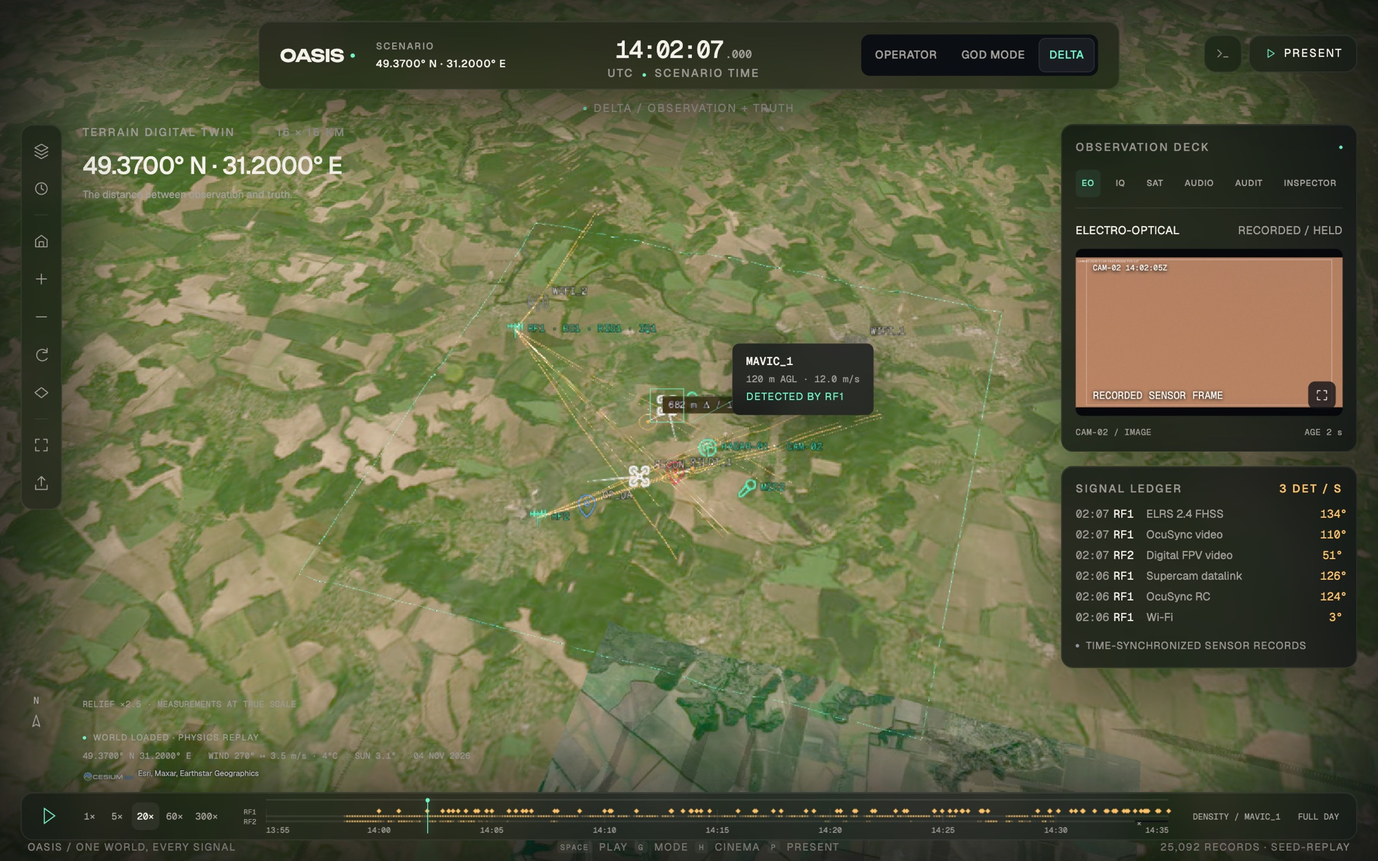
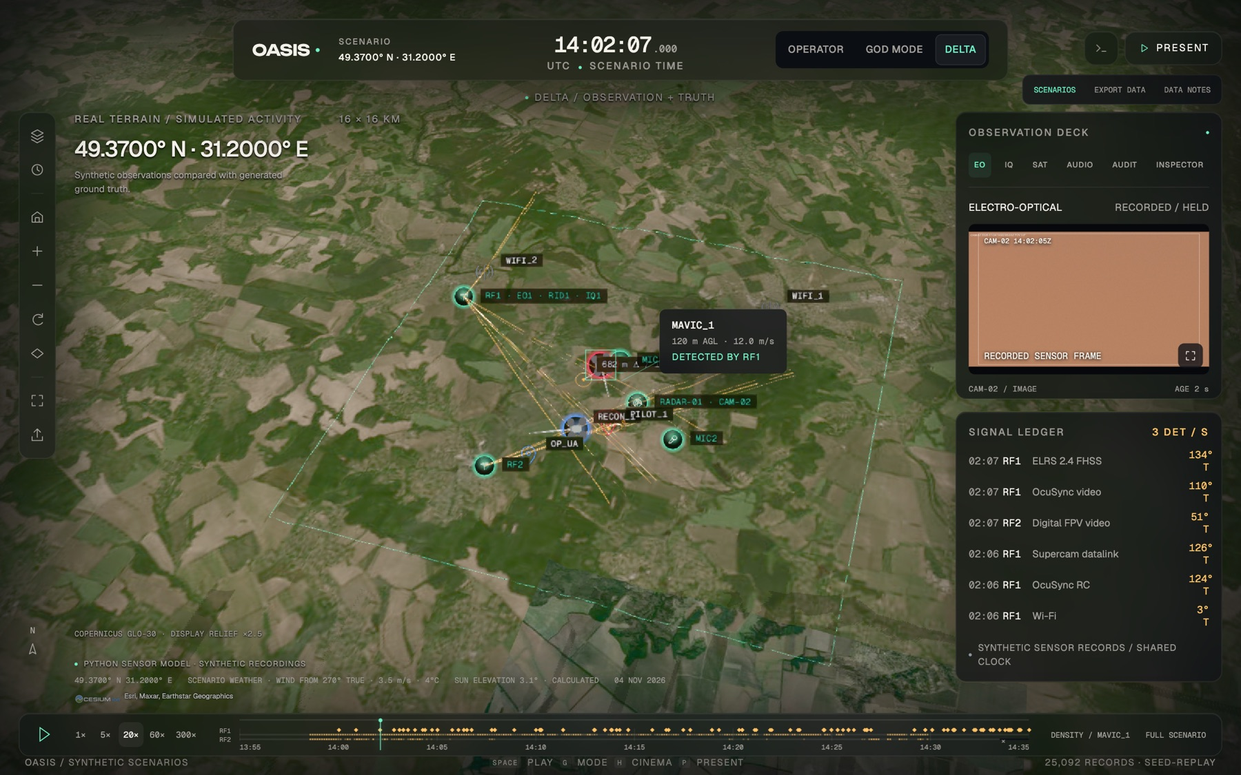
README: verified against the current runs; live console flow, scenario library, showcase stories with reproduced outcomes, Blender airframe markers, updated known limits, fresh screenshots

diff --git a/README.md b/README.md
@@ -4,80 +4,101 @@
 
 **One world. Every signal.**
 
-Synthetic aerial-defence scenarios over real Ukrainian terrain. OASIS simulates one true world, records what every sensor would physically have captured, and keeps an answer key for every record.
+Synthetic aerial-defence data over real Ukrainian terrain: the truth, what every sensor would physically have recorded, and an answer key for every record.
 
-[**Live console**](https://oasis-chi-drab.vercel.app) · [The proof](#the-proof-oasis-vs-asking-an-llm) · [How it works](#how-it-works) · [Seed engine](#the-seed-engine) · [Log book](#the-log-book) · [Quickstart](#quickstart)
+[**Open the live console →**](https://oasis-chi-drab.vercel.app)
+
+[The proof](#the-proof-oasis-vs-asking-an-llm) · [Try it](#try-it) · [How it works](#how-it-works) · [Sensors](#sensors) · [Seed engine](#the-seed-engine) · [Showcase stories](#showcase-stories) · [Quickstart](#quickstart)
 
 </div>
 
-![The OASIS console replaying the hero day over real terrain: radio bearings, position fixes, sensor masts, protected assets and the observation deck](docs/media/console.jpg)
+![The OASIS console replaying the hero day at 14:02:07 UTC: radio bearings from two masts crossing on a hostile Mavic, sensor masts and assets as glass badges, the observation deck and the signal ledger](docs/media/console.jpg)
+
+| What you get | |
+|---|---|
+| **The truth** | Every drone, pilot, decoy, interceptor and flock on one UTC clock over the Copernicus 30 m terrain model. |
+| **Every sensor** | Ten sensors, led by radio direction finding (the signal trace), each recording only what physics allows. |
+| **An answer key** | Every record traced to the object that caused it, and why: line of sight, diffraction loss, SNR, range, delay. |
+| **An independent audit** | Ten checks from geometry, terrain, causality and statistics that never use OASIS's own models. |
+
+**The proof in one line:** on the same 10-minute window, OASIS passes **9 of 9** applicable checks with **8,040** records; a one-shot LLM dataset passes **1** and fails **3**, with **40** records.
 
 ---
 
 ## Why this exists
 
-Counter-drone AI is only as good as the data it learns from, and that data barely exists.
+Counter-drone AI is only as good as its training data, and that data barely exists.
 
-- **Real recordings are scarce, sensitive and unlabelled.** Nobody can tell you which radio burst came from which drone.
-- **They never contain the edge cases that matter:** fibre-optic FPVs with no radio link, jamming, GNSS spoofing, decoys and terrain shadows.
+- **Real recordings are scarce, sensitive and unlabelled.** Nobody can say which radio burst came from which drone, or where its pilot stood.
+- **They never contain the cases that matter most:** fibre-optic FPVs with no radio link, jamming, GNSS spoofing, decoys, terrain shadows.
 
-OASIS **generates** that data, and proves it is physically consistent:
-
-1. **One world, one clock.** Every drone, pilot, decoy, interceptor, bird and civilian is placed on real terrain and flown on one UTC clock. That is the ground truth.
-2. **Sensors observe through physics.** Radio direction finding (the signal trace), raw IQ, radar, camera, satellite, microphones, Remote ID, our own drone's telemetry and civilian reports each see only what physics allows: terrain diffraction, line of sight, the sun, haze, the speed of sound and orbital geometry.
-3. **Blind files plus an answer key.** Sensor files contain no truth. A separate answer key traces every record back to the object that caused it, and why: line of sight, diffraction loss, SNR, range.
-4. **Independent audit.** A separate auditor checks the output with geometry, the DEM, causality and statistics. It never uses OASIS's own propagation models, so it cannot simply agree with itself.
+OASIS generates that data and proves it is physically consistent, so a model trained on it learns physics, not artefacts.
 
 ## The proof: OASIS vs asking an LLM
 
-The challenge asks why this beats asking a strong model for a dataset in one go. We tested exactly that.
-
-**Setup.** One call to a strong general model, given the full scenario and asked for physically realistic sensor data in our file layout (`baselines/oneshot/`). Both datasets cover the same 10-minute window (14:07–14:17 UTC on the hero day) and go through the same 10 checks.
+The challenge asks why this beats asking a strong model for a dataset in one go. We ran exactly that test. One call to a strong general model, given the full scenario and asked for physically realistic sensor data in our file layout (`baselines/oneshot/`). Both datasets cover the same window (14:07–14:17 UTC on the hero day) and face the same ten checks.
 
 | Check | What it tests | **OASIS** | One-shot LLM |
 |---|---|---|---|
-| Provenance | every record traces to a real object; no truth leaks into sensor files | ✅ clean | ✅ clean |
+| Provenance | every record traces to a real object; no truth leaks into sensor files, as columns or as values | ✅ clean | ✅ clean |
 | Clock sync | one UTC clock: `time_utc = start + t`, monotonic, inside the window | ✅ max error 0.5 ms | ❌ timestamps run backwards |
 | Bearing geometry | line-of-sight bearings fall within 2σ of the true bearing | ✅ 95%, and it recovers the hidden mast offsets (+0.84° / −0.59°) | ❌ biased +28.6° / −48.7° |
-| Occlusion gaps | receivers go quiet while terrain blocks the path | ✅ RF2 stays silent for all 336 s of the window in which a ridge hides the Mavic | ⚪ no drone ever goes behind terrain |
-| Fix calibration | ~50% of position fixes fall inside their own reported CEP50 | ✅ 52.5% (236 fixes) | ❌ "too good": 8 m errors under a 50 m CEP |
+| Occlusion gaps | receivers go quiet while terrain blocks the path | ✅ RF2 silent for all 336 s of the window in which a ridge hides the Mavic | ⚪ no drone ever goes behind terrain |
+| Fix calibration | about half of the position fixes fall inside their own reported CEP50 | ✅ 52.5% of 236 fixes | ❌ "too good": 8 m errors under a 50 m CEP |
 | Range law | fitted path-loss exponent lies in the physical 1.5–4.5 band | ✅ 1.9 (RF1), 4.2 (RF2) | ⚪ too little data to test |
-| Acoustic delay | sound arrives distance ÷ c(T) after emission | ✅ max error 0.17% | ⚪ no audio |
-| Spoof visibility | spoofed GNSS shows up only inside the spoofing window | ✅ 2 m error outside vs 245 m inside | ⚪ no position reports |
+| Acoustic delay | sound arrives distance ÷ c(T) after emission, c from the air temperature | ✅ max error 0.17% | ⚪ no audio |
+| Spoof visibility | spoofed GNSS shows up only inside the spoofing window | ✅ 2 m median error outside, 245 m inside | ⚪ no position reports |
 | Cross-sensor time | every camera frame was cued by RF or radar within 5 s | ✅ 1,603 frames | ⚪ no frames |
 | Terrain shadow | excess path loss is ≥ 10 dB higher behind terrain | ⚪ not enough mixed paths in this window | ⚪ |
 | **Result** | | **9 pass · 0 fail · 1 skip** | **1 pass · 3 fail · 6 skip** |
 
-**Volume.** Within that window, OASIS wrote **8,040 sensor records**, 2,716 of them radio bearings. The one-shot dataset holds **40** records in total.
-
-**The deeper point.** An LLM can write plausible rows. It cannot keep 8,000 of them consistent with terrain, orbits, the speed of sound and each other. That consistency is what makes data trainable, and it is what the audit measures. Reproduce it with:
+In that window OASIS wrote **8,040 sensor records**, 2,716 of them radio bearings. The one-shot dataset holds **40**. An LLM can write plausible rows; it cannot keep 8,000 of them consistent with terrain, orbits, the speed of sound and each other. That consistency is what makes data trainable, and it is what the audit measures.
 
 ```sh
 uv run python -m mirrorworld audit out/ros-valley --window 18720 19320 --baseline baselines/oneshot/out/ros-valley-oneshot
 ```
 
+## Try it
+
+**Live console:** <https://oasis-chi-drab.vercel.app>
+
+1. The entry globe opens with Ukraine highlighted.
+2. **Enter simulation** opens the scenario library: eleven runs, each generated by the physics engine and audited.
+3. Pick one. It loads into the 3D console, where **Operator** shows only what the sensors saw, **God mode** shows the truth, and **Delta** shows both, with a line from each observation to the truth.
+
+<p align="center">
+  <img src="docs/media/entry-globe.jpg" width="49%" alt="The OASIS entry globe with Ukraine highlighted">
+  <img src="docs/media/scenario-library.jpg" width="49%" alt="The scenario library: eleven audited physics runs with their coordinates, seeds, airframes and audit results">
+</p>
+
+**Things to look for in the hero day:**
+- At **14:02:07 UTC** the Mavic is exactly at the challenge brief's example point.
+- At **14:10** the fibre-optic FPV launches; no electronic sensor records it.
+- At **14:11:23** a ridge silences RF2 while RF1 keeps bearing.
+
+The public site carries every third camera frame and no WAV audio, to stay light. A local run has everything.
+
 ## The hero day
 
-Area centre 49.3700° N · 31.2000° E (a 16 × 16 km valley), 4 Nov 2026, 08:55–14:35 UTC. The scenario is `scenarios/ros-valley.yaml`.
+Area centre 49.3700° N · 31.2000° E, a 16 × 16 km valley, 4 Nov 2026, 08:55–14:35 UTC (`scenarios/ros-valley.yaml`). It runs from a morning satellite pass to dusk.
 
-| UTC | What happens | What makes it hard |
+| UTC | What happens | Why it is hard |
 |---|---|---|
-| 09:06:39.787 | **Sentinel-2A passes overhead.** The pass is computed from orbit data. A Shahed is inserted into a real L2A scene at true size, with per-band timing smear and a sun-cast shadow | satellites see the past: each band is a different instant |
-| 13:58:32 | **A hostile Mavic launches.** RF1 records it within a second. At 14:02:07 it is exactly at the challenge brief's example point | controller uplinks are DF'd at the operator: crossed bearings locate the **pilot** |
+| 09:06:39.787 | **Sentinel-2A passes overhead.** The pass is computed from orbit data. A Shahed is inserted into a real L2A scene at true size, with per-band timing smear and a sun-cast shadow | each band is a different instant |
+| 13:58:32 | **A hostile Mavic launches.** RF1 records it within a second; at 14:02:07 it sits on the brief's example point | controller uplinks are found at the operator: crossed bearings locate the **pilot** |
 | 14:10:00 | **A fibre-optic FPV launches.** It has no radio link, so no electronic sensor records it. Three civilian reports, 179 s after launch, are its only trace | the threat that defeats RF-based defence, shown honestly |
-| 14:11:23 | **The Mavic flies a leg through RF2's terrain shadow.** RF2 goes silent for 461 s while RF1 keeps bearing on it | dead zones come from the DEM, not from a script |
-| 14:25–14:33 | **A 2.4 GHz barrage jammer runs (14:25:50–14:27:50), our own recon drone is GNSS-spoofed, and at 14:33:30 an FPV destroys the RF2 mast.** The jammer is airtime-weighted. The recon drone's telemetry drifts 245 m during the spoof | sensors fail as they would in reality |
-| all day | **Protected power station SITE-01, a mobile air-defence team and C2-01.** C2 raises alerts from sensor data only. The answer key shows what really reached the site | the gap between what C2 knew and what happened |
+| 14:11:23 | **The Mavic flies through RF2's terrain shadow.** RF2 goes silent for 461 s while RF1 keeps bearing | dead zones come from the DEM, not from a script |
+| 14:25–14:33 | **A 2.4 GHz barrage jammer runs (14:25:50–14:27:50), our recon drone is GNSS-spoofed, and at 14:33:30 an FPV destroys the RF2 mast** | sensors fail as they would in reality |
+| all day | **A protected power station, a mobile air-defence team and a command post (C2).** C2 raises alerts from sensor data only; the answer key shows what really reached the site | the gap between what C2 knew and what happened |
 
 <p align="center"><img src="docs/media/drone_near_far.png" width="760" alt="The same 2.5 m delta-wing drone through the OASIS camera model at 400 m and 2,140 m"></p>
-<p align="center"><sub>The camera model draws a Blender-rendered airframe at its true angular size and viewing angle: 32 px across at 400 m, about 6 px at 2,140 m.</sub></p>
+<p align="center"><sub>The camera draws a Blender-rendered airframe at its true angular size and viewing angle: 32 px across at 400 m, about 6 px at 2,140 m.</sub></p>
 
 ## How it works
 
 ```mermaid
 flowchart LR
-  P["text prompt<br/>(optional)"] --> K["knobs + seed"]
-  K --> B["builder<br/>DEM siting · sun · rendezvous"]
+  K["knobs + seed<br/>(or a text prompt)"] --> B["builder<br/>terrain siting · sun · rendezvous"]
   B --> Y["scenario.yaml<br/>(validated)"]
   Y --> W["one world<br/>truth on one UTC clock"]
   W --> RF["RF direction finding<br/>+ raw IQ"]
@@ -94,71 +115,85 @@ flowchart LR
   F & AK --> UI["3D console"]
 ```
 
-**Rules the code enforces:**
-- **One clock.** Every record carries `time_utc` and `t`, and the audit checks they agree to the millisecond.
+**Rules the code enforces**
+- **One clock.** Every record carries `time_utc` and `t`; the audit checks they agree to the millisecond.
 - **Determinism.** Every random draw comes from a named stream (`ctx.rng(name)`), so the same scenario and seed always give the same files.
-- **No leaks.** Sensor folders never contain truth columns, and the audit checks values as well as column names.
-- **No silent skips.** A missing data source is logged, never quietly ignored. Every run must include the signal trace (an `rf_df` receiver).
+- **No leaks.** Sensor folders never contain truth, and the audit checks values as well as column names.
+- **The signal trace is mandatory.** A scenario without a radio direction-finding receiver is refused.
 
 ## Sensors
 
-One module each in `mirrorworld/sensors/`.
+One module each in `mirrorworld/sensors/`, all on the same clock.
 
 | Sensor | What it records |
 |---|---|
-| `rf_df` | Direction-finding receivers on real radio masts. Terrain diffraction is ITU-R P.526-16 delta-Bullington over the Copernicus 30 m DEM (validated against the reference implementation), with correlated shadowing, Rician fading, co-channel interference and barrage jamming. Bearing error grows with SNR and with terrain-blocked paths. **Controller uplinks are separate transmitters, so crossed bearings locate the pilot.** Outputs are CSV and TAK lines of bearing. |
-| `rf_iq` | Raw 2.4 GHz IQ snapshots (SigMF) with every burst at its physical power. Per-burst labels are in the answer key. |
+| `rf_df` | **The signal trace.** Direction-finding receivers on real radio masts. Terrain diffraction is ITU-R P.526-16 delta-Bullington over the 30 m DEM, matching the reference implementation to about 1e-14 dB, with correlated shadowing, Rician fading, co-channel interference and barrage jamming. Bearing error grows with SNR and with terrain-blocked paths. Controller uplinks are separate transmitters, so crossed bearings locate the pilot. Outputs CSV and TAK lines of bearing. |
+| `rf_iq` | Raw 2.4 GHz IQ snapshots (SigMF), every burst at its physical power; per-burst labels in the answer key. |
 | `radar` | X-band plots with terrain masking, Swerling-1 fluctuation, birds-vs-drones confusion and clutter, plus an alpha-beta tracker with realistic gaps. |
-| `camera` | Pan-tilt camera cued by RF fixes or radar tracks. The scene uses the real sun position, a horizon ray-marched from the DEM, and **3D drone models rendered in Blender** (`tools/render_sprites.py`), drawn at true pixel size and viewing angle, then hazed, blurred, noised and JPEG-compressed. Includes simulated detector output. |
-| `satellite` | The real Sentinel-2 pass computed from orbit data, over a real Sentinel-2 L2A background. Movers are inserted at true size with per-band timing smear and a sun-cast shadow. |
+| `camera` | Pan-tilt camera cued by RF fixes or radar tracks. Real sun position, a horizon ray-marched from the DEM, and Blender-rendered airframes (`tools/render_sprites.py`) at true pixel size and viewing angle, then hazed, blurred, noised and JPEG-compressed. Includes detector output. |
+| `satellite` | The real Sentinel-2 pass from orbit data, over a real Sentinel-2 L2A background; movers inserted at true size with per-band timing smear and a sun-cast shadow. |
 | `microphone` | Per-microphone WAVs with speed-of-sound delay, Doppler, ISO 9613-1 absorption, terrain screening and wind, plus a CFAR tone detector. |
 | `remote_id` | DroneID-style broadcasts that leak the pilot's position and carry the drone's *believed* (spoofable) GNSS. |
 | `telemetry` | Our own drone's log, which drifts under GNSS spoofing. |
-| `reports` | Civilian (ePPO-style) and observer reports in Ukrainian and English, generated only when that person could physically see or hear the object. In the hero day they are the only trace of the fibre-optic FPV. |
-| `c2` | Command-post alerts (new track, approaching site, lost contact, sensor silent), response-asset status and protected-site status, all derived from sensor data only. |
+| `reports` | Civilian (ePPO-style) and observer reports in Ukrainian and English, generated only when that person could physically see or hear the object. |
+| `c2` | Command-post alerts (new track, approaching site, lost contact, sensor silent), response-asset status and protected-site status, from sensor data only. |
 
-**Fused output.** Crossed bearings become position fixes with honest error ellipses (`fused/fixes.csv`). These are exported as TAK Cursor-on-Target alongside the lines of bearing and sensor positions, ready for ATAK.
+**Fused output.** Crossed bearings become position fixes with honest error ellipses (`fused/fixes.csv`), exported as TAK Cursor-on-Target next to the lines of bearing, ready for ATAK.
 
 ## The seed engine
 
-Knobs plus a seed give a validated scenario. Everything geometric is computed from the real DEM and the sun, never guessed.
+Knobs plus a seed give a validated scenario. Everything geometric comes from the real DEM and the sun.
 
-**The built world is fixed per sector.** The protected site, the air-defence positions, the receiver masts (sited on the DEM for coverage) with their calibration offsets, and the microphones all come from the sector alone. They are identical for every seed, and `tests/test_builder.py` checks it.
+- **The built world is fixed per sector.** The protected site, the air-defence positions, the receiver masts (sited on the terrain for coverage) with their calibration offsets, and the microphones depend on the sector alone, never on the seed. `tests/test_builder.py` checks it.
+- **The seed changes only what moves:** drone types, entry sides, corridors, altitudes, timing, interceptor rendezvous, birds, the jammer window and the weather.
 
-**The seed drives only what moves:** drone types, entry sides, corridors, altitudes, timing, interceptor rendezvous, birds, the jammer window and the weather.
-
-| Template | What happens | Audit (seed 1, area centre 49.3754° N · 31.1882° E) |
+| Template | What happens | Audit (seed 1, 49.3754° N · 31.1882° E) |
 |---|---|---|
 | `incoming` | mixed hostiles converge on the protected site from random sides | 7 pass · 0 fail |
-| `intercepted` | interceptors launch from the AD team to **exact** rendezvous points on one-way drones | 7 pass · 1 fail |
-| `lost-contact` | a Mavic leg is hidden in a receiver's terrain shadow, a fibre-optic FPV comes in, and a jammer runs | 6 pass · 2 fail |
-| `saturation` | one-way drones arrive in 2–3 tight waves from one side, more than the defence can service | 6 pass · 2 fail |
-| `recon-strike` | a recon UAV orbits the AD battery and a loitering munition follows it in mid-orbit | 7 pass · 0 fail |
-
-Failures are listed under [Known limits](#known-limits); we show them rather than tune them away.
+| `intercepted` | interceptors launch from the air-defence team to exact rendezvous points on one-way drones | 7 pass · 1 fail |
+| `lost-contact` | a Mavic leg hidden in a receiver's terrain shadow, a fibre-optic FPV, a jammer | 6 pass · 2 fail |
+| `saturation` | one-way drones in 2–3 tight waves from one side, more than the defence can service | 6 pass · 2 fail |
+| `recon-strike` | a recon UAV orbits the air-defence battery; a loitering munition follows it in | 7 pass · 0 fail |
 
 ```sh
-uv run python -m mirrorworld.builder --template saturation --seeds 1-4 --run      # build, simulate and audit 4 raids
+uv run python -m mirrorworld.builder --template saturation --seeds 1-4 --run     # build, simulate and audit four raids
 uv run python -m mirrorworld.builder --sector random --template intercepted --drones 12 --seed 4 --run
-uv run python generate_scenario.py --matrix --seed 1                              # every asset-catalog preset × sector
+uv run python generate_scenario.py --matrix --seed 1                             # every asset-catalog preset × sector
 uv run python -m mirrorworld prompt "two Mavics scouting a dam at dusk, a fibre-optic FPV up the river" -o scenarios/new.yaml --run
 ```
 
-Other knobs: `--drones`, `--mix shahed136:3,gerbera:2,orlan10:1`, `--entry N|E|S|W`, `--spread`, `--tod dusk|dawn|morning|noon|night|HH:MM`, `--date`, `--duration`, `--preset minimal|standard|full`, `--defence`, `--birds`, `--wifi`.
+More knobs: `--drones`, `--mix shahed136:3,gerbera:2,orlan10:1`, `--entry N|E|S|W`, `--spread`, `--tod dusk|dawn|morning|noon|night|HH:MM`, `--date`, `--duration`, `--preset minimal|standard|full`, `--defence`, `--birds`, `--wifi`. Prompt mode only fills scenario intent; positions, paths and times are still computed from terrain and the sun.
 
-**Airframes** are public-source archetypes from `mirrorworld/catalog.py` and `data/assets.json`:
+**Airframes** are public-source archetypes (`mirrorworld/catalog.py`, `data/assets.json`):
 - **Hostile:** Geran-2/Shahed, Gerbera decoy, Orlan-10, ZALA, Supercam, Lancet-type loitering munition, Mavic, analog and fibre-optic FPV.
-- **Friendly:** interceptor drones (Octopus, JEDI classes), ground air-defence teams and AD batteries.
-- **Sites:** fictional protected sites (power station, water works, hospital).
+- **Friendly:** interceptor drones (Octopus and JEDI classes), ground air-defence teams and batteries.
+- **Sites:** fictional power station, water works and hospital.
+
+## Showcase stories
+
+Five fixed scenarios with a planned outcome each (`scenarios/showcase/`), all at 49.3754° N · 31.1882° E for 20 minutes from 14:01 UTC. `run_showcase.py` simulates each one, counts hostiles, interceptions and site reaches from the truth, and stops if they differ from the plan. All five reproduce their plan.
+
+| Story | Aircraft | Response | Planned and reproduced | Audit |
+|---|---|---|---|---|
+| Shahed raid on a power station | 3 Shahed-type | JEDI-class interceptor | 1 intercepted, 2 reach the site | 4 pass · 3 fail |
+| Decoys over the water works | 2 Shahed-type, 2 Gerbera decoys | 2 Octopus-class | 2 intercepted, 2 reach the site | 5 pass · 1 fail |
+| Recon and strike on a power station | 2 Shahed-type, 2 Orlan-10 | interceptor | 1 intercepted, 1 reaches; both recon aircraft turn away | 7 pass · 0 fail |
+| Low FPVs at the water works | 2 analog FPV, 2 fibre FPV | 2 JEDI-class | 2 intercepted, 2 reach the site | 7 pass · 1 fail |
+| Lost contact near the hospital | Mavic recon, fibre FPV | JEDI-class, misses | neither reaches; the fibre FPV stops 836 m short | 7 pass · 0 fail |
+
+```sh
+uv run python run_showcase.py all              # simulate, check the planned outcomes, audit, export replays
+uv run python run_showcase.py 03-recon-power --serve
+```
 
 ## The log book
 
-Every run gets `out/<name>/logbook.md`: one time-ordered account that labels each line with the voice it comes from.
+Every run gets `out/<name>/logbook.md`, one time-ordered account in three voices:
 - **TRUTH** is what happened.
 - **SENSOR** is the first time each sensor recorded each object.
 - **C2** is what the command post concluded from sensor data alone.
 
-It ends with this table, taken unedited from the hero day:
+It ends with the outcome per hostile. Unedited, from the hero day:
 
 | hostile | airborne | first sensor record | first C2 alert | truth outcome |
 |---|---|---|---|---|
@@ -168,26 +203,20 @@ It ends with this table, taken unedited from the hero day:
 | shahed_1 | 14:23:20 | 14:23:26 (+6 s) | none | not reached |
 | fpv_1 | 14:24:55 | 14:24:55 (+0 s) | 14:26:12 (+77 s) | not reached |
 
-The Mavic that reached the protected site was in the RF data within a second, yet C2 only alerted 148 s later. That kind of finding is what a training set should expose.
-
-```sh
-uv run python -m mirrorworld.logbook out/ros-valley
-uv run python scripts/publish_runs.py dist          # every run: its own console, log book and raw files, one index
-```
+The Mavic that reached the protected site was in the radio data within a second, yet C2 alerted only 148 s later. A training set should expose exactly that kind of gap.
 
 ## The console
 
-- **Modes:**
-  - **Operator** shows sensor data only.
-  - **God mode** shows the truth.
-  - **Delta** shows both, with a line from each observation to the truth.
-- **Map:** the replay runs on the simulation's own DEM with a baked Sentinel-2 + hillshade texture. The full landscape stays around the sector as context, and every location is shown as coordinates.
-- **Panels:** an observation deck (camera frames, IQ spectrograms, satellite chips, audio, the audit and an inspector), a signal ledger, and a timeline with key moments.
-- **Markers:** asset-catalog icons for sites, teams, drones and sensor masts. They scale with zoom, and detail lines appear only close in.
+- **Entry and library.** A globe with Ukraine highlighted, then the scenario library built from `runs/index.json`. `scripts/publish_runs.py` writes that index and gives every run its data, log book and raw files.
+- **Map.** The replay runs on the simulation's own DEM with a baked Sentinel-2 + hillshade texture; the landscape around the sector stays visible as darker context. Every location is shown as coordinates.
+- **Markers.** Sites, teams and sensor masts are glass badges coloured by side and status. Drones are drawn as their Blender-rendered airframes (quad, delta wing, fixed wing), turned to their heading. Markers grow as you zoom in; detail lines appear only up close.
+- **Readable on any terrain.** The imagery is graded down, every map label sits on a dark backing, and overlay text carries a halo.
+- **Panels.** An observation deck (camera frames, IQ spectrograms, satellite chips, audio, the audit, an inspector), a signal ledger and a timeline with key moments.
 
 ```sh
-npm install && npm run data:export && npm run dev        # Vite + CesiumJS, reads dashboard/public/data.js
-npm run build                                            # static dist/, deployable anywhere
+npm install && npm run data:export && npm run dev       # Vite + CesiumJS dev server, reads dashboard/public/data.js
+npm run build                                           # static dist/, deployable anywhere
+uv run python scripts/publish_runs.py dist              # add every audited run in out/ to the build's scenario library
 uv run python -m mirrorworld dash out/ros-valley --serve # dependency-free fallback replay at localhost:8765
 ```
 
@@ -196,13 +225,13 @@ uv run python -m mirrorworld dash out/ros-valley --serve # dependency-free fallb
 ```sh
 uv sync
 uv run python -m mirrorworld run scenarios/ros-valley.yaml --skip-missing   # hero day → out/ros-valley/
-uv run python -m mirrorworld audit out/ros-valley                           # physics checks → audit.md / audit.json
-uv run python -m mirrorworld.logbook out/ros-valley                         # the readable story → logbook.md
+uv run python -m mirrorworld audit out/ros-valley                           # physics checks → audit.md, audit.json
+uv run python -m mirrorworld.logbook out/ros-valley                         # the story → logbook.md
 ```
 
-- **Prompt mode** needs `OPENAI_API_KEY` in `.env`. The LLM only fills scenario intent; coordinates, sensor sites, flight paths and times of day are computed from terrain and the sun.
 - **First run** downloads the DEM tiles and Sentinel-2 scenes it needs into `cache/`.
-- **Self-checks:** every module has one, e.g. `uv run python tests/test_builder.py`.
+- **Prompt mode** needs an LLM API key in `.env` (the variable name is in `mirrorworld/prompt.py`).
+- **Self-checks:** one per module, e.g. `uv run python tests/test_builder.py`.
 
 ## What a run produces (`out/<name>/`)
 
@@ -210,38 +239,39 @@ uv run python -m mirrorworld.logbook out/ros-valley                         # th
 |---|---|
 | `scenario.yaml`, `run.json` | the exact input, and the manifest: data sources, DEM tiles, skipped sensor types |
 | `truth/tracks.csv`, `truth/objects.csv` | every object's position and velocity on one UTC clock, plus what its own GNSS *believed* (spoofing lives here) |
-| `sensors/<id>/` | only what that sensor recorded, with no truth columns: CSV, JSONL, TAK XML, JPEG, WAV, SigMF |
-| `answer_key/<id>.csv` | for each record, the object that produced it, its role, and the physics behind it (line of sight, diffraction loss, SNR, range, delay, pixels on target) |
-| `fused/fixes.csv`, `fixes.cot.xml` | crossed-bearing positions computed from sensor data alone, as TAK Cursor-on-Target |
+| `sensors/<id>/` | only what that sensor recorded, with no truth: CSV, JSONL, TAK XML, JPEG, WAV, SigMF |
+| `answer_key/<id>.csv` | for each record, the object that produced it, its role and the physics behind it |
+| `fused/fixes.csv`, `fixes.cot.xml` | crossed-bearing positions from sensor data alone, also as TAK Cursor-on-Target |
 | `audit.json`, `audit.md` | the independent checks |
 | `logbook.md` | the time-ordered story: truth, sensors and C2 |
 
 ## Known limits
 
-We list these because a dataset you can't trust is worse than none.
+A dataset you can't trust is worse than none, so the failures are listed rather than tuned away.
 
-- **Range-law check on generated runs.** It fails on three of the five template runs: fitted exponents range from 0.26 to 8.8, against 1.9 and 4.2 on the hero. The suspect is geometry, since DEM-sited masts on high ground see mostly diffraction-free paths over a narrow range spread. It needs a closer look before we trust that statistic on builder scenarios.
-- **Terrain-shadow contrast.** One generated receiver shows 9.2 dB against a 10 dB threshold.
-- **Wind in the acoustic audit.** The audit models air temperature but not wind, so one windy run exceeds the 2% tolerance (2.35%).
-- **Airframes are archetypes.** Platform numbers (speeds, RCS, sound levels, link bands) come from public sources (`docs/research/`); they are not performance data. Camera models are procedural airframes rendered in Blender, not exact replicas.
-- **Fictional sites.** Protected sites and their names are fictional. Radio masts are real (OpenStreetMap), and everything about the drones is synthetic.
+- **Range law on generated runs.** The fitted path-loss exponent leaves the 1.5–4.5 band for at least one receiver in three template runs and two showcase stories (from −0.41 to 8.8; the hero gives 1.9 and 4.2). Receivers sited on high ground see few blocked paths over a narrow spread of ranges, which makes that fit fragile. It needs work before we trust the statistic there.
+- **Terrain-shadow contrast.** Two runs show 9.2 dB and 9.6 dB against a 10 dB threshold.
+- **Fix calibration on short stories.** Two showcase stories produce only 10 and 3 position fixes, too few for a calibration test to mean much.
+- **Wind in the acoustic audit.** The audit models air temperature but not wind, so the windiest run exceeds the 2% tolerance (2.35%).
+- **Archetypes, not performance data.** Speeds, RCS, sound levels and link bands come from public sources (`docs/research/`). Camera models are procedural airframes rendered in Blender, not exact replicas.
+- **Fictional sites.** Protected sites are fictional. Radio-mast positions are real (OpenStreetMap); everything about the drones is synthetic.
 
 ## Repository
 
 ```
 mirrorworld/        engine: config, world (DEM), truth, sensors/, builder (seed engine), audit, log book, exporter, prompt
-scenarios/          hero + generated scenarios          tests/       one self-check per module
-data/               asset catalog and presets            baselines/   the one-shot LLM dataset and its prompt
-dashboard/          Vite + CesiumJS console              docs/        research notes, brief, media
-tools/              Blender sprite renderer              scripts/     runs page, status board
+scenarios/          hero, generated scenarios and showcase/ stories      tests/       one self-check per module
+data/               asset catalog and presets                            baselines/   the one-shot LLM dataset and its prompt
+dashboard/          Vite + CesiumJS console                              docs/        research notes, brief, media
+tools/              Blender sprite renderer                              scripts/     runs page and library, status board
+run_showcase.py     showcase runner with outcome checks                  generate_scenario.py   asset-catalog presets
 ```
 
 ## Data sources and attribution
 
 - **Terrain:** Copernicus DEM GLO-30, © DLR e.V. 2010–2014 and © Airbus Defence and Space GmbH 2014–2018, provided under COPERNICUS by the European Union and ESA.
 - **Imagery:** contains modified Copernicus Sentinel data (Sentinel-2 L2A via the Earth Search STAC catalogue).
-- **Radio-mast locations:** © OpenStreetMap contributors (ODbL).
+- **Radio-mast locations and entry-map base layer:** © OpenStreetMap contributors (ODbL); © CARTO.
 - **Orbits:** CelesTrak. **Ephemeris:** JPL DE421.
 - **Console basemap outside the scenario area:** Esri, Maxar, Earthstar Geographics.
 - **Icons:** Tabler Icons (MIT).
-- **Propagation:** ITU-R P.526-16 diffraction, validated against the reference implementation to 1e-14 dB.
